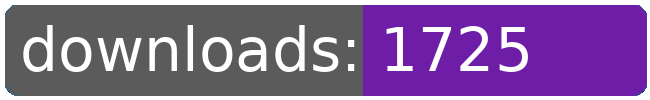
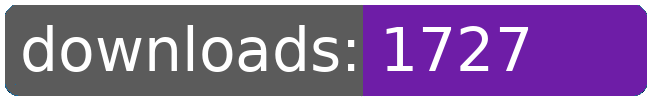
dl log written

Changed region(s): [[0.7692, 0.27, 0.8308, 0.72]]

diff --git a/README.md b/README.md
@@ -153,8 +153,8 @@
 		<td>1659</td>
 		<td>1688</td>
 		<td>1710</td>
-		<td>1725</td>
-		<td>+ 15</td>
+		<td>1727</td>
+		<td>+ 17</td>
 	</tr>
 	<tr>
 		<td>purchaseable.androids</td>
@@ -164,8 +164,8 @@
 		<td>484</td>
 		<td>508</td>
 		<td>530</td>
-		<td>545</td>
-		<td>+ 15</td>
+		<td>547</td>
+		<td>+ 17</td>
 	</tr>
 	<tr>
 		<td>purchaseable.cloakingdevice</td>
@@ -252,8 +252,8 @@
 		<td></td>
 		<td></td>
 		<td></td>
-		<td>25041</td>
-		<td>278</td>
+		<td>25045</td>
+		<td>282</td>
 	</tr>
 </table>
 </sub></sup>
@@ -322,8 +322,8 @@
 		<td>1659</td>
 		<td>1688</td>
 		<td>1710</td>
-		<td>1725</td>
-		<td>+ 15</td>
+		<td>1727</td>
+		<td>+ 17</td>
 	</tr>
 	<tr>
 		<td>bunrodeaoutfitter</td>
@@ -443,8 +443,8 @@
 		<td>484</td>
 		<td>508</td>
 		<td>530</td>
-		<td>545</td>
-		<td>+ 15</td>
+		<td>547</td>
+		<td>+ 17</td>
 	</tr>
 	<tr>
 		<td>capture.augen</td>
@@ -509,8 +509,8 @@
 		<td></td>
 		<td></td>
 		<td></td>
-		<td>25041</td>
-		<td>278</td>
+		<td>25045</td>
+		<td>282</td>
 	</tr>
 </table>
 </sub></sup>
@@ -518,7 +518,6 @@
 <table>
 	<tr>
 		<td> </td>
-		<td>2025-12-08</td>
 		<td>2025-12-09</td>
 		<td>2025-12-10</td>
 		<td>2025-12-11</td>
@@ -527,10 +526,10 @@
 		<td>2025-12-14</td>
 		<td>2025-12-15</td>
 		<td>2025-12-16</td>
+		<td>2025-12-17</td>
 	</tr>
 	<tr>
 		<td>page views</td>
-		<td>26</td>
 		<td>22</td>
 		<td>10</td>
 		<td>20</td>
@@ -539,10 +538,10 @@
 		<td>29</td>
 		<td>43</td>
 		<td>19</td>
+		<td>1</td>
 	</tr>
 	<tr>
 		<td>unique visitors</td>
-		<td>7</td>
 		<td>7</td>
 		<td>8</td>
 		<td>10</td>
@@ -551,6 +550,7 @@
 		<td>12</td>
 		<td>8</td>
 		<td>10</td>
+		<td>1</td>
 	</tr>
 </table>
 <br>
@@ -564,8 +564,8 @@
 	</tr>
 	<tr>
 		<td>2025-10-15</td>
-		<td>2804</td>
-		<td>606</td>
+		<td>2805</td>
+		<td>607</td>
 		<td>192</td>
 		<td>21</td>
 	</tr>
@@ -578,8 +578,8 @@
 	</tr>
 	<tr>
 		<td>63</td>
-		<td>44.51</td>
-		<td>9.62</td>
+		<td>44.52</td>
+		<td>9.63</td>
 		<td></td>
 		<td></td>
 	</tr>
